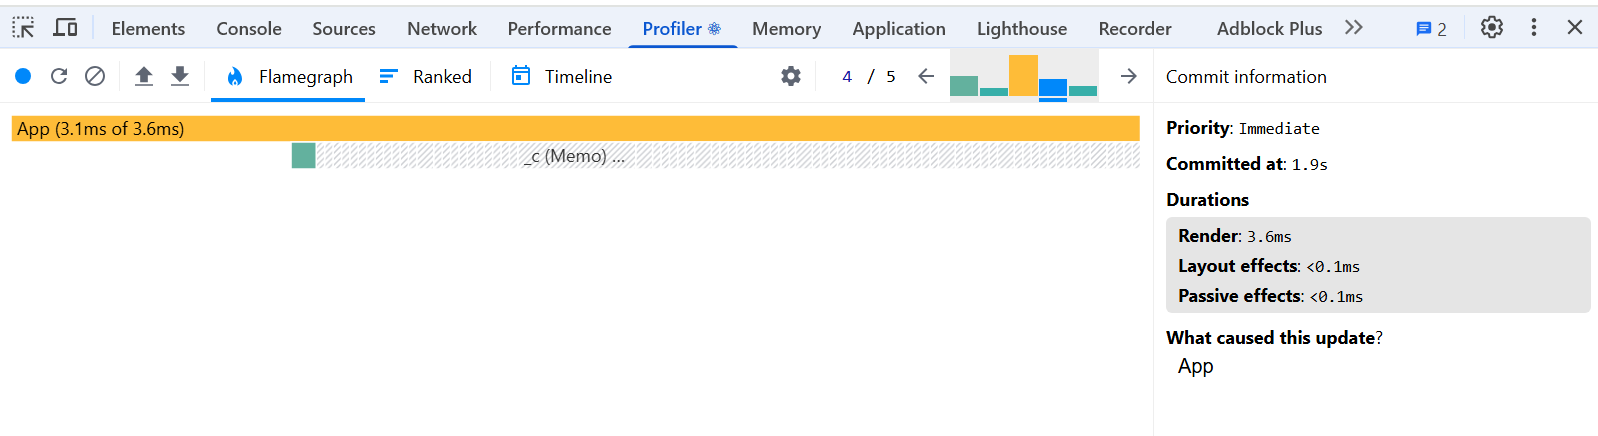
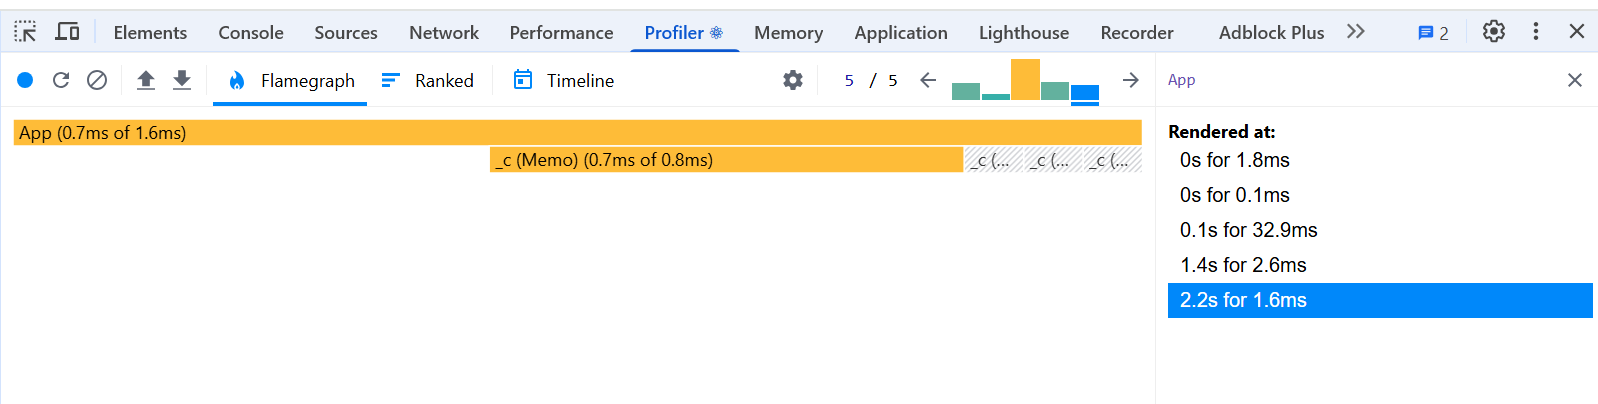
feat: add another bunch of metrics data

diff --git a/performance/README.md b/performance/README.md
@@ -42,6 +42,26 @@ _Ranked chart_
 
 </details>
 
+### Search country (letter combination "A", then "S")
+
+- **Render Duration:** 74.3ms (48.6ms ("Init render") + 18.4ms ("A") (11.6ms + 6.8ms) + 7.3ms ("S") (6.8ms + 0.5ms))
+- **Commit Duration:** 16.8s (0.2ms ("Init render") + 6.4s ("A") + 10.2s ("S"))
+- **Interaction:** Changing searchbar input
+
+<details>
+<summary>Performance Metrics Screenshots</summary>
+
+![Timeline (Interactions)](./public/assets/metrics/searchRender_interact.png)
+_Timeline (Interactions)_
+
+![Flame Graph](./public/assets/metrics/searchRender_flame.png)
+_Flame graph_
+
+![Ranked Chart](./public/assets/metrics/searchRender_ranked.png)
+_Ranked chart_
+
+</details>
+
 ## Performance After Optimization
 
 ### Initial render
@@ -86,8 +106,8 @@ _Ranked chart_
 
 ### Search country (letter combination "A", then "S")
 
-- **Render Duration:** 55ms (50.6ms ("Init render") + 3.6ms ("A") + 0.8ms ("S"))
-- **Commit Duration:** 6.8s (0.2ms ("Init render") + 1.9s ("A") + 4.7s ("S"))
+- **Render Duration:** 37.1ms (32.9ms ("Init render") + 2.6ms ("A") + 1.6ms ("S"))
+- **Commit Duration:** 3.7s (0.1ms ("Init render") + 1.4s ("A") + 2.2s ("S"))
 - **Interaction:** Changing searchbar input
 
 <details>
